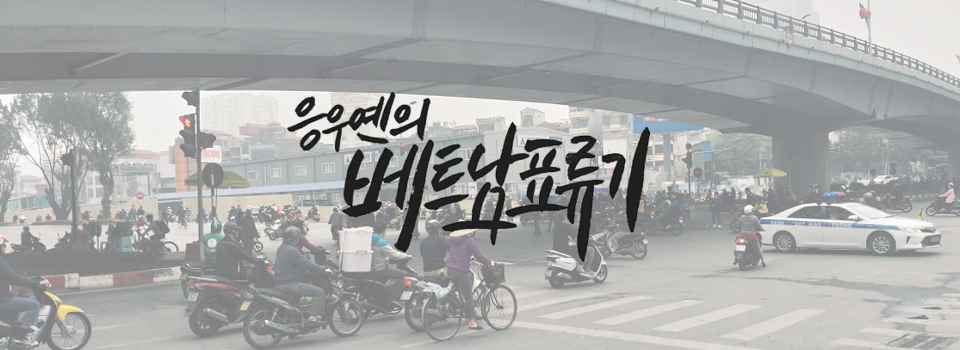
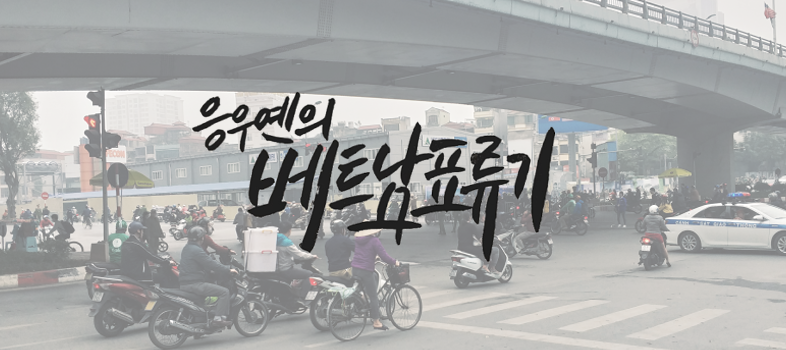
광고 UI 수정, robot 재 업데이트

diff --git a/theme/basic/css/default.css b/theme/basic/css/default.css
@@ -470,13 +470,18 @@ table .bgblack{background: rgb(37, 37, 37); text-align: center;}
 #side_ad #ad_img{width:100%;height: 100px;text-align: center;line-height: 100px}
 #side_ad img{height: 100%;vertical-align: middle;}
 
-#slide{height:auto;overflow: hidden;}
-#slide ul{width:400%;height:280px;transition:1s;}
+#advertise {height: 300px;margin-bottom: 20px;}
+#left_ad {width: 300px;height: 100%;margin-right: 15px;display: inline-block;}
+#left_ad #div_img{z-index: -1;width: 100%;position: relative;}
+#left_ad img {width: 100%;display: block;margin: auto;}
+
+#slide{width: 700px;display: inline-block;height:300px;overflow: hidden;}
+#slide ul{width:400%;height:300px;transition:1s;}
 #slide ul:after{content:"";display:block;clear:both;}
 #slide li{position: relative;float:left;width:25%;height:280px;justify-content: center;align-items: center;}
 #slide input{display:none;}
 #slide label{display:inline-block;vertical-align:middle;width:10px;height:10px;border:2px solid #666;background:#fff;transition:0.3s;border-radius:50%;cursor:pointer;}
-#slide .pos{width:100%;text-align:center;}
+#slide .pos{width:100%;text-align:center;top: -45px;position: relative;}
 #slide #div_img{z-index: -1;width: 100%;position: absolute;}
 #slide img{width: 100%; display: block; margin: auto;}/*광고이미지 크기 정의*/
 

diff --git a/theme/basic/index.php b/theme/basic/index.php
@@ -16,20 +16,28 @@ if(G5_IS_HANMINCAMP) {
 }
 
 ?>
-<div id="slide" class="slider" style="margin-bottom:10px">
+<div id="advertise">
+<div id="left_ad">
+  <div id="div_img"> <img src="img/main_ad_07.jpg"> </div></a>
+</div>
+<div id="slide" class="slider">
   <input type="radio" name="pos" class="dot" id="pos1">
   <input type="radio" name="pos" class="dot" id="pos2">
   <input type="radio" name="pos" class="dot" id="pos3">
+  <input type="radio" name="pos" class="dot" id="pos4">
   <ul class="slideshow-container">
+    <li class="mySlides" ><div id="div_img"> <img src="img/main_ad_08.jpg"> </div></li>
     <li class="mySlides" onclick="location.href='http://hanalum.kr/bbs/board.php?bo_table=music_90s';"><div id="div_img" style="top:-20px"> <img src="img/main_ad_06.jpg"> </div></li>
-    <li class="mySlides" onclick="location.href='http://hanalum.kr/bbs/board.php?bo_table=radio';"><div id="div_img" style="top:-120px"> <img src="img/main_ad_05.png"> </div> </li>
-    <li class="mySlides" onclick="location.href='http://hanalum.kr/bbs/board.php?bo_table=vietnam';"><div id="div_img" style="top:-20px"> <img src="img/main_ad_04.png"> </div></li>
+    <li class="mySlides" onclick="location.href='http://hanalum.kr/bbs/board.php?bo_table=radio';"><div id="div_img" style="top:-20px"> <img src="img/main_ad_05.png"> </div> </li>
+    <li class="mySlides" onclick="location.href='http://hanalum.kr/bbs/board.php?bo_table=vietnam';"><div id="div_img" > <img src="img/main_ad_04.png"> </div></li>
   </ul>
   <p class="pos">
     <label for="pos1"></label>
     <label for="pos2"></label>
     <label for="pos3"></label>
+    <label for="pos4"></label>
   </p>
+</div>
 </div>
 
 <script>
